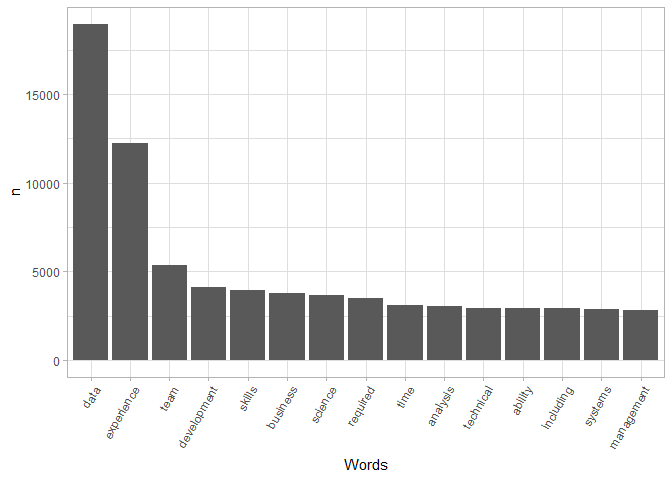
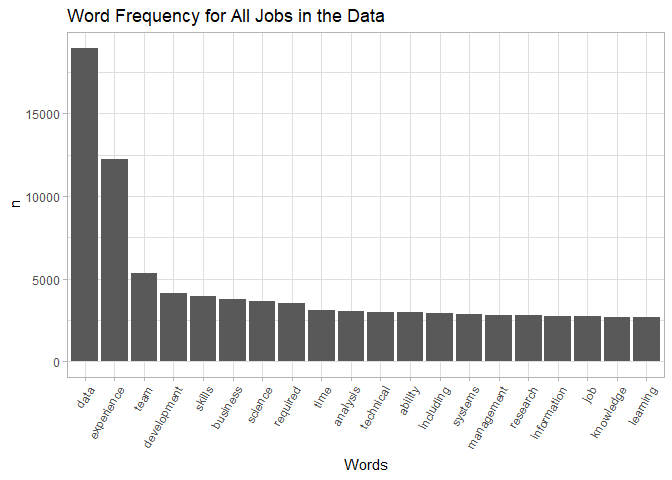
idea for text analysis graph decision

diff --git a/Text Analysis/text_analysis.md b/Text Analysis/text_analysis.md
@@ -103,19 +103,6 @@ better_line_words <- job_words %>% anti_join(stop_words)
 3.  Create a visualization of the word count distribution and interpret
     your results.
 
-<!-- end list -->
-
-``` r
-better_line_words %>% count(word, sort = T) %>% slice(1:15) %>% 
-  ggplot(aes(x = reorder(word, n, function(n) -n), y = n)) + 
-  geom_bar(stat = "identity") + 
-  theme_light() +
-  theme(axis.text.x = element_text(angle = 60, hjust = 1)) + 
-  xlab("Words")
-```
-
-![](text_analysis_files/figure-gfm/unnamed-chunk-4-1.png)<!-- -->
-
 </details>
 
 ``` r
@@ -129,11 +116,19 @@ better_line_words %>% count(word, sort = T) %>% slice(1:20) %>%
     title = "Word Frequency for All Jobs in the Data")
 ```
 
-![](text_analysis_files/figure-gfm/unnamed-chunk-5-1.png)<!-- -->
+![](text_analysis_files/figure-gfm/unnamed-chunk-4-1.png)<!-- -->
+
+## Interpretation
 
 No skills were mentioned frequently so I will use TF-IDF just to see
 what the results yield. Keep in mind that this is for all of the jobs in
 the data set. I will filter by DS jobs later in the report.
+
+## Usage
+
+This text analysis should not be included in our final report because we
+have been emphasizing looking at 6 DS categories and this incorporates
+all job categories.
 
 <details>
 
@@ -204,11 +199,17 @@ ggplot(tfidf_words, aes(x = word, y = tf_idf))+
   xlab("Words")
 ```
 
-![](text_analysis_files/figure-gfm/unnamed-chunk-8-1.png)<!-- -->
+![](text_analysis_files/figure-gfm/unnamed-chunk-7-1.png)<!-- -->
 
 </details>
 
 # Word Frequency by Job Category
+
+Word count for every job category would not be beneficial to the final
+report so I will begin to do text analysis on each job category and then
+on all of the categories combined. I am doing this to see if there are
+any skills that applicants should have experience with before applying.
+This could help them become more successful applicants.
 
 ## Data Scientist
 
@@ -262,7 +263,7 @@ better_line_words %>% count(word, sort = T) %>% slice(1:20) %>%
     title = "Frequency of Words in the Data Scientist Category")
 ```
 
-![](text_analysis_files/figure-gfm/unnamed-chunk-11-1.png)<!-- -->
+![](text_analysis_files/figure-gfm/unnamed-chunk-10-1.png)<!-- -->
 
 ### Interpretation
 
@@ -325,7 +326,7 @@ better_line_words %>% count(word, sort = T) %>% slice(1:20) %>%
     title = "Frequency of Words in the Data Analyst Category")
 ```
 
-![](text_analysis_files/figure-gfm/unnamed-chunk-14-1.png)<!-- -->
+![](text_analysis_files/figure-gfm/unnamed-chunk-13-1.png)<!-- -->
 
 ### Interpretation
 
@@ -386,7 +387,7 @@ better_line_words %>% count(word, sort = T) %>% slice(1:20) %>%
     title = "Frequency of Words in the Data Engineer Category")
 ```
 
-![](text_analysis_files/figure-gfm/unnamed-chunk-17-1.png)<!-- -->
+![](text_analysis_files/figure-gfm/unnamed-chunk-16-1.png)<!-- -->
 
 ### Interpretation
 
@@ -447,7 +448,7 @@ better_line_words %>% count(word, sort = T) %>% slice(1:20) %>%
     title = "Frequency of Words in the Machine Learning Engineer\nCategory")
 ```
 
-![](text_analysis_files/figure-gfm/unnamed-chunk-20-1.png)<!-- -->
+![](text_analysis_files/figure-gfm/unnamed-chunk-19-1.png)<!-- -->
 
 ### Interpretation
 
@@ -509,7 +510,7 @@ better_line_words %>% count(word, sort = T) %>% slice(1:20) %>%
     title = "Frequency of Words in the Statistician Category")
 ```
 
-![](text_analysis_files/figure-gfm/unnamed-chunk-23-1.png)<!-- -->
+![](text_analysis_files/figure-gfm/unnamed-chunk-22-1.png)<!-- -->
 
 ### Interpretation
 
@@ -568,7 +569,7 @@ better_line_words %>% count(word, sort = T) %>% slice(1:20) %>%
     title = "Frequency of Words in the Other Analyst Category")
 ```
 
-![](text_analysis_files/figure-gfm/unnamed-chunk-26-1.png)<!-- -->
+![](text_analysis_files/figure-gfm/unnamed-chunk-25-1.png)<!-- -->
 
 ### Interpretation
 
@@ -609,7 +610,14 @@ better_line_words %>% count(word, sort = T) %>% slice(1:20) %>%
     title = "Frequency of Words for all of the Data Science Related\nPositions")
 ```
 
-![](text_analysis_files/figure-gfm/unnamed-chunk-29-1.png)<!-- -->
+![](text_analysis_files/figure-gfm/unnamed-chunk-28-1.png)<!-- -->
+
+## Interpretation
+
+This graph is all inclusive for the data science related positions. It
+shows that applicants who are interested in a data science related
+position should have an analytical mindset. They also should be able to
+work well in teams.
 
 # Conclusions
 
@@ -619,3 +627,12 @@ applicants would need to learn (R, Python) that would help them get a
 data science related job. I found that this was not case. There were
 soft skills that applicants should look to hone before applying such as
 analytical skills and getting experience working in teams.
+
+# Text Analysis Graphs for final report
+
+I am indifferent on including all of the individual job category graphs.
+I think it would be beneficial to show our thought process through the
+text analysis. However, That would be 6 separate graphs and the all
+inclusive graph on top of our graphs for other analyses. A lot. We can
+still talk about our thought process through all 6 graphs even if we
+don’t include them.
